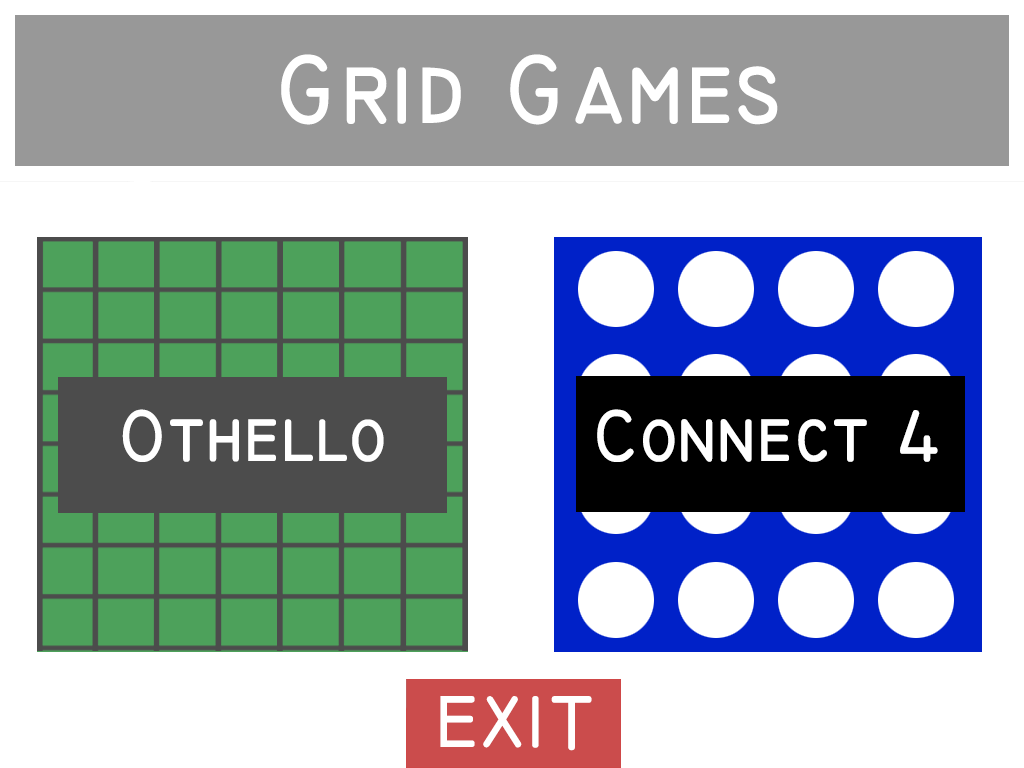
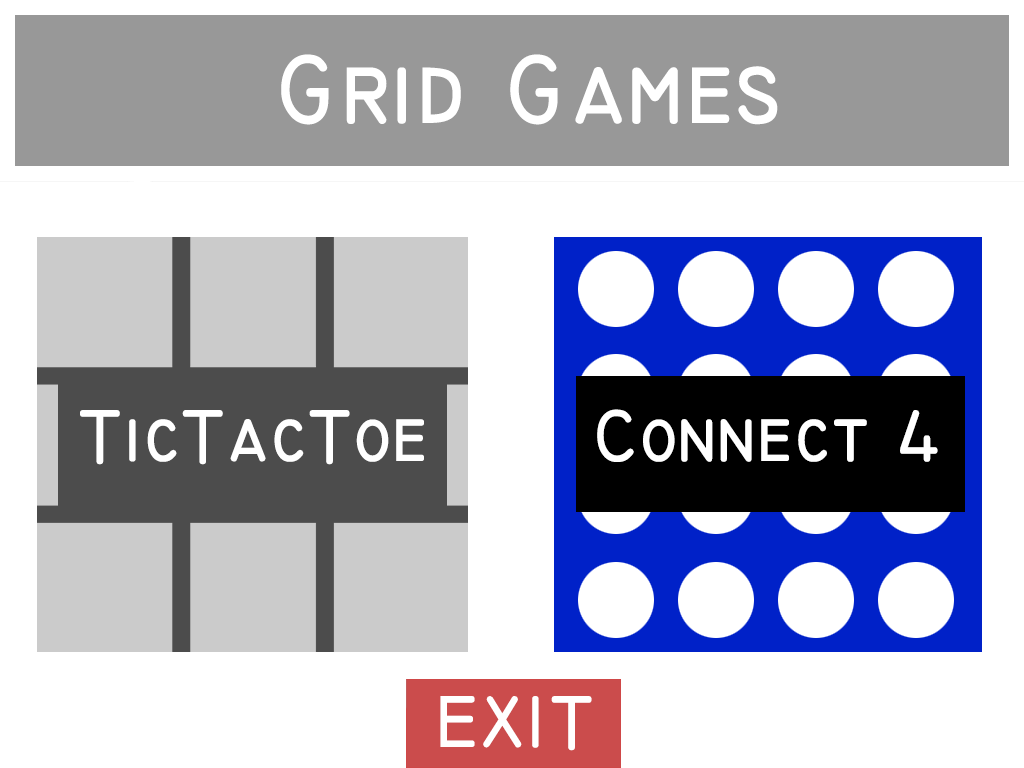
deleted all unneeded code and created new images for tictactoe. also renamed the files

Changed region(s): [[0.0312, 0.2812, 0.4688, 0.875]]

diff --git a/src/Game/Othello/TicTacToe.java b/src/Game/Othello/TicTacToe.java
@@ -15,19 +15,20 @@ import java.net.URL;
 import javax.imageio.ImageIO;
 import javax.swing.JPanel;
 
-public class Othello extends Game implements KeyListener, MouseListener, MouseMotionListener {
+public class TicTacToe extends Game implements KeyListener, MouseListener, MouseMotionListener {
 	URL fileURL; 
-	private Othello_Grid grid;
+	private TicTacToe_Grid grid;
 	//buffered images
-	BufferedImage blackPiece;
-	BufferedImage whitePiece;
-	BufferedImage othelloBoard;
-	
-	boolean turn = false; 
-	//false: black	true: white
-	
+	BufferedImage oPiece;
+	BufferedImage xPiece;
+	BufferedImage tictactoeBoard;
+	public boolean gameOn;
+	//counters for game pieces
+
 	public void run() {
-		
+		while (gameOn){
+			
+		}
 	}
 
 	public void draw(Graphics g) {
@@ -35,21 +36,21 @@ public class Othello extends Game implements KeyListener, MouseListener, MouseMo
 	}
 	public void paintComponent(Graphics g) {
 		//draw game board
-		g.drawImage(othelloBoard, 0, 0, null);
+		g.drawImage(tictactoeBoard, 0, 0, null);
 	}
 
-	public Othello() throws IOException  {
+	public void TicTacToe() throws IOException  {
 		//image files 
-		fileURL = getClass().getResource("Othello board.png");
-		othelloBoard = ImageIO.read(fileURL);
+		fileURL = getClass().getResource("tictactoe board.png");
+		tictactoeBoard = ImageIO.read(fileURL);
 		
-		fileURL = getClass().getResource("whitePiece.png");
-		whitePiece = ImageIO.read(fileURL);
+		fileURL = getClass().getResource("o piece.png");
+		oPiece = ImageIO.read(fileURL);
 		
-		fileURL = getClass().getResource("blackPiece.png");
-		blackPiece = ImageIO.read(fileURL);
+		fileURL = getClass().getResource("x piece.png");
+		xPiece = ImageIO.read(fileURL);
 		
-		grid = new Othello_Grid();
+		grid = new TicTacToe_Grid();
 	}
 
 	
@@ -75,16 +76,11 @@ public class Othello extends Game implements KeyListener, MouseListener, MouseMo
 		int clickX = MouseInfo.getPointerInfo().getLocation().x;
 		int clickY = MouseInfo.getPointerInfo().getLocation().y;
 		int gridX, gridY;
-		//if mouse is clicked on game board
-		if (clickX < 875 && clickX > 155 && clickY > -750 && clickY < -30){
-			//find grid location that was clicked
-			gridX = (clickX - 155)/90 + 1;
-			gridY = (-clickY - 30)/90 + 1;
-			grid.addElement(gridX, gridY, grid.playerTurn);
-		}
 		
-	}
-
+		
+		
+		
+		}
 	@Override
 	public void mouseEntered(MouseEvent e) {
 		// TODO Auto-generated method stub
@@ -126,6 +122,6 @@ public class Othello extends Game implements KeyListener, MouseListener, MouseMo
 		// TODO Auto-generated method stub
 		
 	}
-	
+
 
 }

diff --git a/src/Game/Othello/TicTacToe_Grid.java b/src/Game/Othello/TicTacToe_Grid.java
@@ -1,0 +1,14 @@
+package Game.Othello;
+
+import Game.Grid;
+
+public class TicTacToe_Grid extends Grid{
+	//initial player turns
+	String playerTurn = "Black";
+	String otherPlayerTurn = "White";
+
+	@Override
+	public void addElement(int x, int y, String s) {
+
+	}
+}
